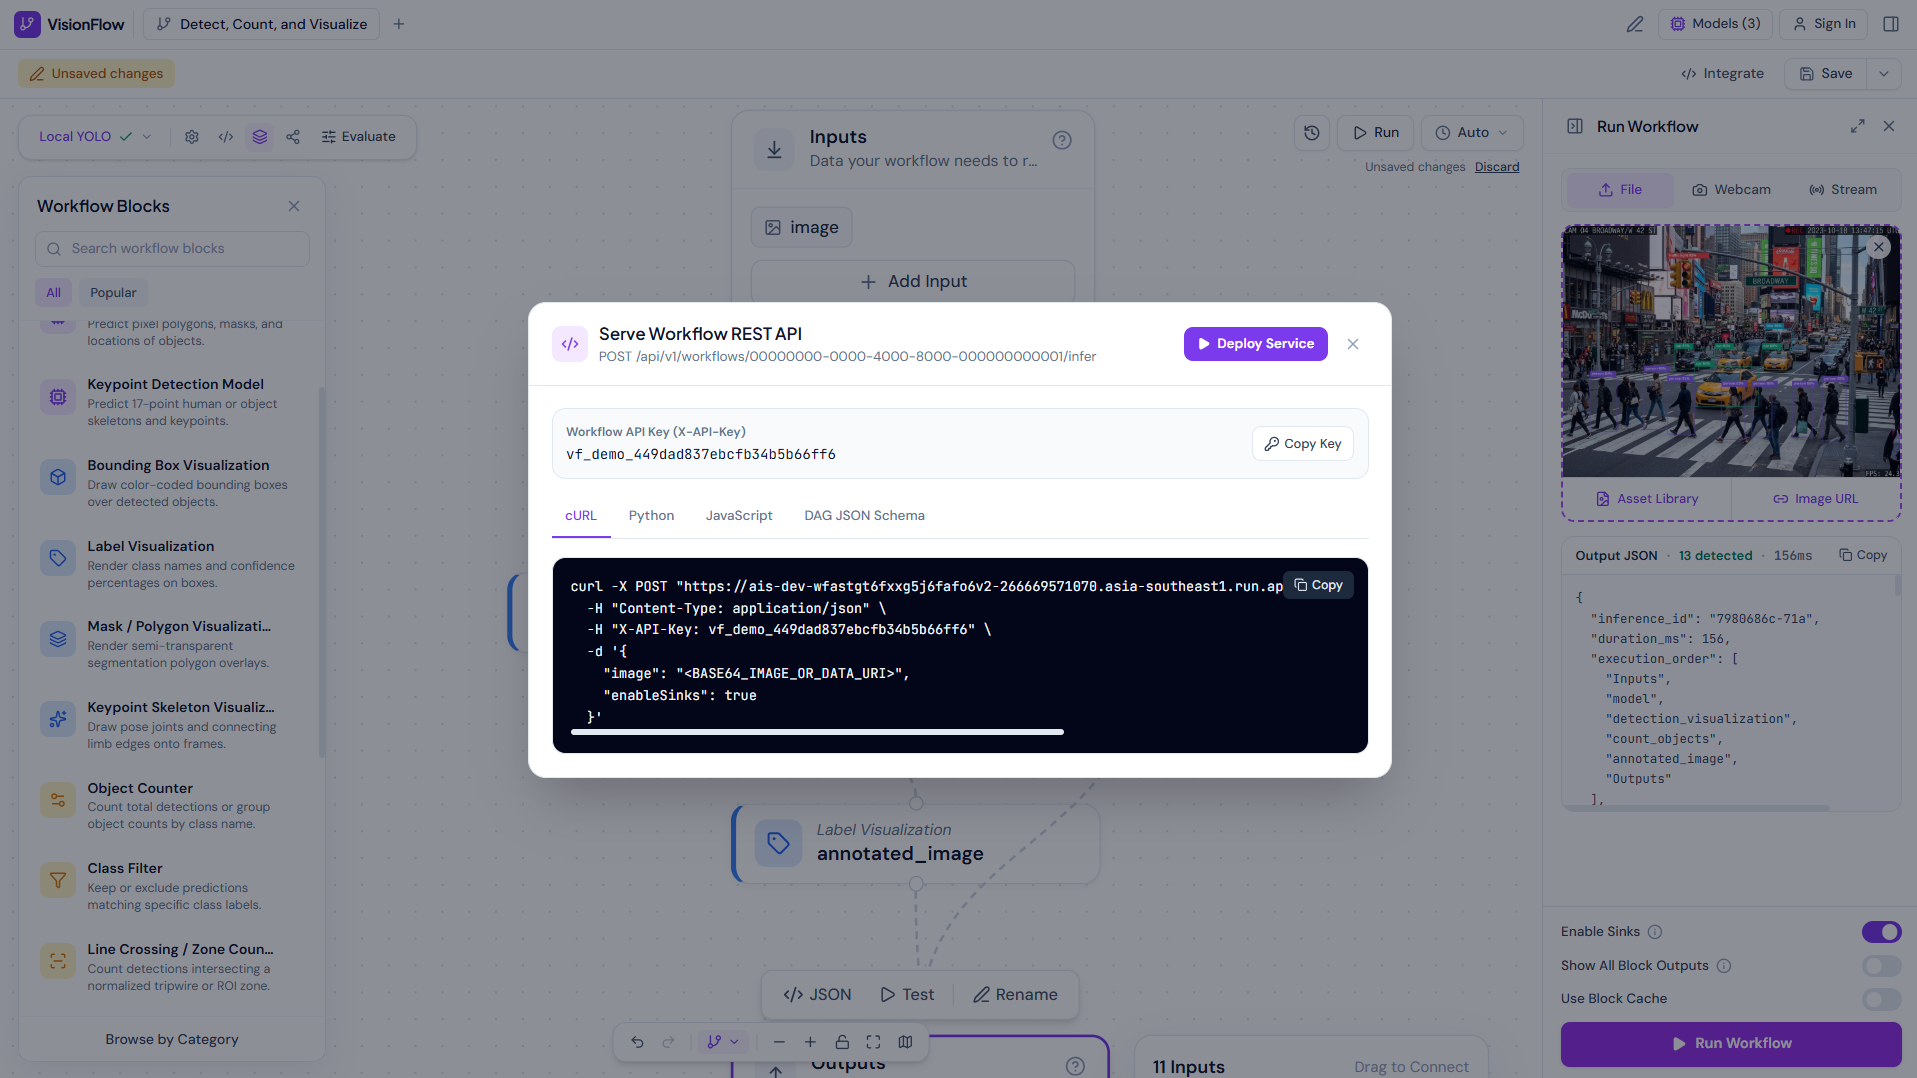
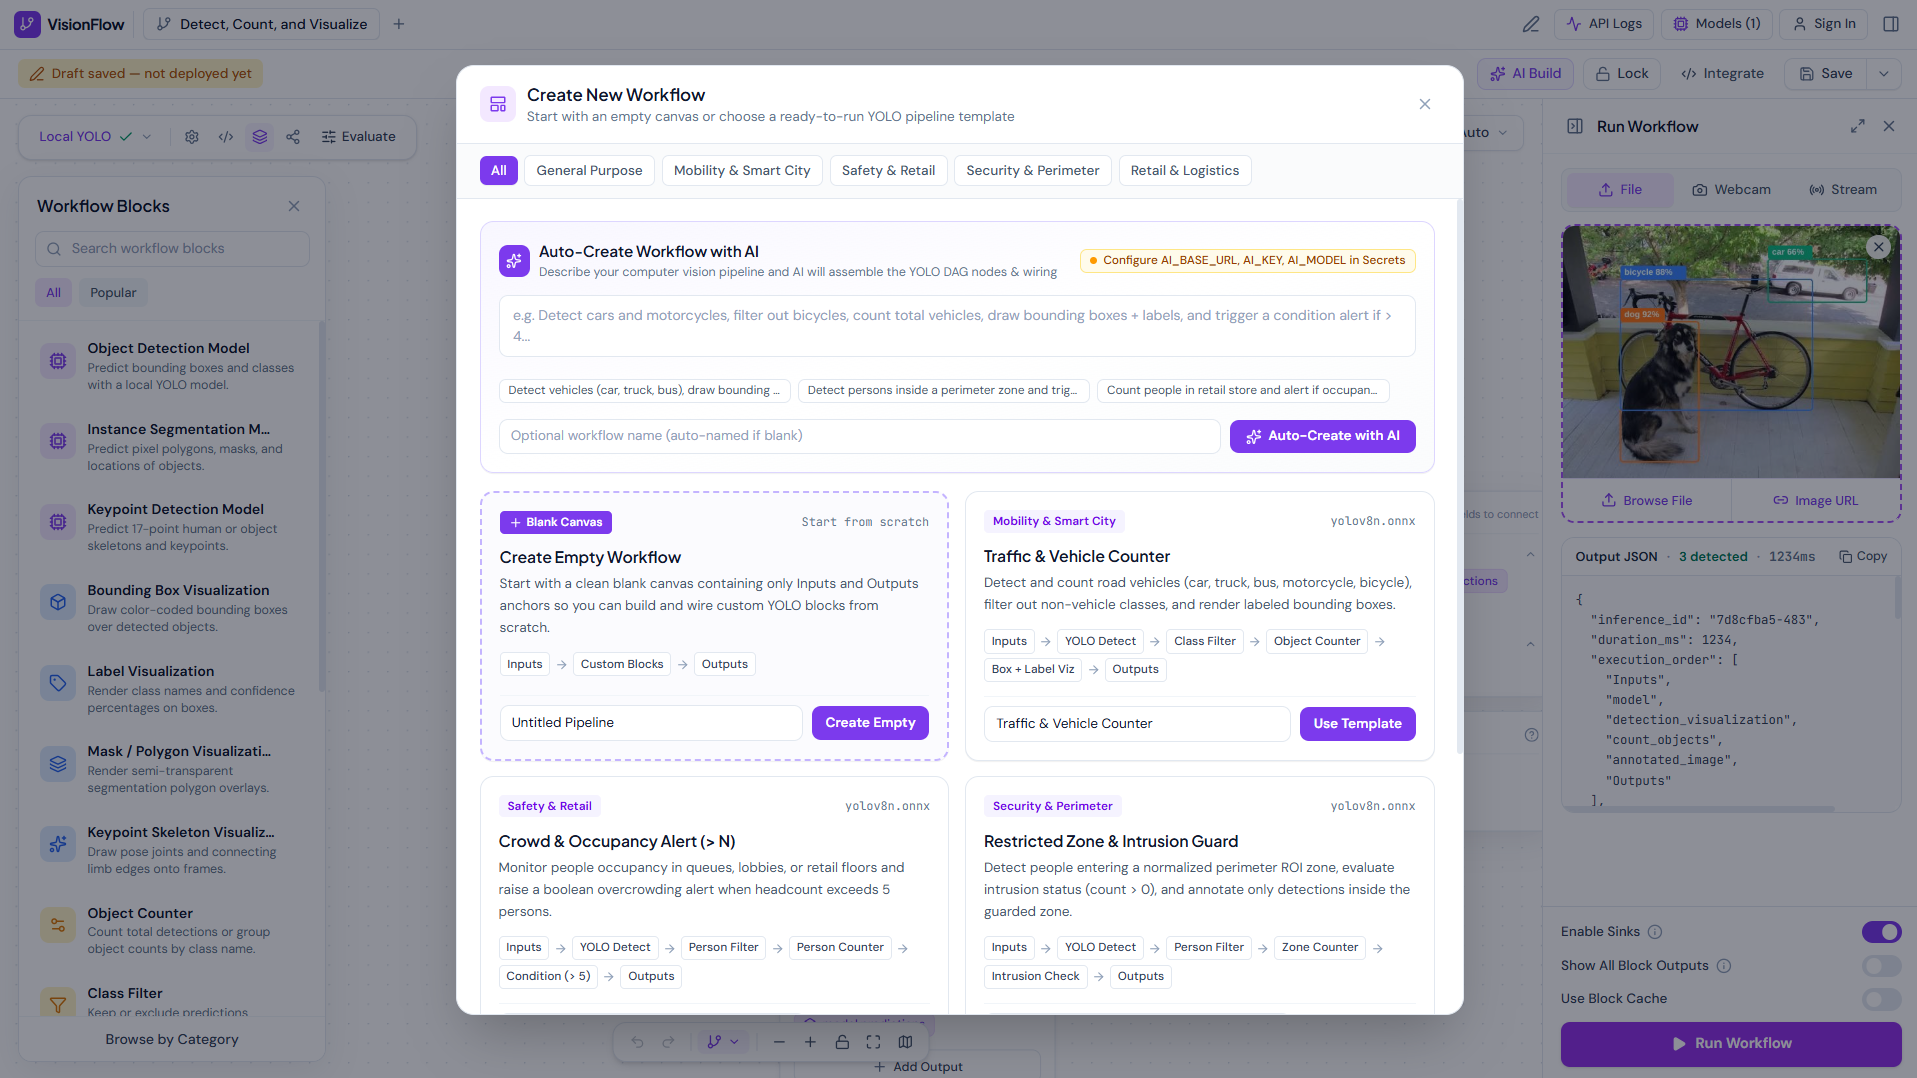
docs: update screenshots and README documentation
Refresh visual assets to reflect the latest UI changes, including the AI workflow builder, and update documentation to cover new REST API serving features.

diff --git a/README.md b/README.md
@@ -23,20 +23,32 @@ Design directed acyclic vision pipelines visually, inspect `.onnx` / `.pt` YOLO 
 ## Visual Overview
 
 <p align="center">
-  <img src="docs/screen_vision_flow_main.png" alt="VisionFlow Main DAG Canvas and Live Inference Runner" width="100%" />
+  <img src="docs/screen_vision_flow_main.png" alt="VisionFlow Main DAG Canvas, Node Inspector, Lock Controls, and Live Inference Runner" width="100%" />
 </p>
 
 <table>
   <tr>
     <td width="50%" align="center">
-      <img src="docs/screen_vision_flow_2.png" alt="Serve Workflow REST API Integration Modal" width="100%" />
+      <img src="docs/screen_vision_flow_2.png" alt="Create New Workflow and AI Auto-Create Modal" width="100%" />
       <br />
-      <sub><strong>Instant REST API Serving</strong> — cURL, Python, JavaScript &amp; DAG JSON export with scoped <code>X-API-Key</code></sub>
+      <sub><strong>AI Workflow Builder &amp; Templates</strong> — OpenAI-compatible <code>AI Build</code> prompt generator, blank canvas, &amp; pre-wired YOLO templates</sub>
     </td>
     <td width="50%" align="center">
       <img src="docs/screen_vision_flow_3.png" alt="Local YOLO Model Registry Modal" width="100%" />
       <br />
       <sub><strong>Local YOLO Model Registry</strong> — Upload <code>.onnx</code> / <code>.pt</code> weights with automatic class &amp; task extraction</sub>
+    </td>
+  </tr>
+  <tr>
+    <td width="50%" align="center">
+      <img src="docs/screen_vision_flow_4.png" alt="Serve Workflow REST API Integration Modal" width="100%" />
+      <br />
+      <sub><strong>Instant REST API Serving</strong> — cURL, Python, JavaScript &amp; DAG JSON export with scoped <code>X-API-Key</code></sub>
+    </td>
+    <td width="50%" align="center">
+      <img src="docs/screen_vision_flow_5.png" alt="API Call Logs Modal" width="100%" />
+      <br />
+      <sub><strong>API Call Logs &amp; Auditing</strong> — PostgreSQL request telemetry with method/status filters, latency stats &amp; payload summaries</sub>
     </td>
   </tr>
 </table>
@@ -46,11 +58,13 @@ Design directed acyclic vision pipelines visually, inspect `.onnx` / `.pt` YOLO 
 ## Key Capabilities
 
 - **Visual Top-to-Bottom DAG Editor:** Drag, connect, rename, duplicate, disable, and inspect nodes with inline floating `Inputs` / `Outputs` field mapping (`inputs.image` → `model.predictions` → `annotated_image.image` → `outputs`).
+- **AI Auto-Create Workflow & Templates:** Click **+** or **AI Build** to start from a blank canvas (`Create Empty Workflow`), pick category-filtered YOLO templates (`Traffic & Vehicle Counter`, `Crowd & Occupancy Alert`, `Restricted Zone & Intrusion Guard`, `Retail Shelf & Inventory Audit`), or describe a pipeline in natural language using any OpenAI API-compatible endpoint (`AI_BASE_URL`, `AI_KEY`, `AI_MODEL`).
+- **Pending Changes Tracking & Workflow Lock:** Unsaved graph or parameter edits highlight **Save Changes** with a live orange indicator and one-click **Discard** rollback; **Lock / Unlock** persists workflow protection in PostgreSQL and enforces `423 Locked` on server mutations.
 - **Local YOLO Model Registry:** Upload `.onnx` and `.pt` models with automated `class_names`, tensor `inputShape`, and task (`detect`, `segment`, `pose`) inspection persisted to PostgreSQL.
 - **Deterministic Topological DAG Engine:** Executes graphs via Kahn's topological sort using `onnxruntime-node` for inference and `sharp` SVG compositing for bounding boxes, labels, segmentation polygons, and pose keypoints.
 - **Logic & Automation Blocks:** Built-in `Object Counter`, `Class Filter`, `Line Crossing / Zone Counter`, `Condition (if count > N)`, and output sinks (`Webhook`, `MQTT`, `Modbus`).
 - **Interactive Run & Test Panel:** Test workflows live against uploaded image files, public HTTPS URLs, browser **Webcam** frames, or background **RTSP/HTTP** video workers via `ffmpeg` with live MJPEG preview.
-- **One-Click API Deployment:** Every saved workflow exposes `POST /api/v1/workflows/:workflowId/infer` secured by per-workflow `X-API-Key` or JWT Bearer auth, logging execution metrics to `inference_runs`.
+- **One-Click API Deployment & Call Logs:** Every saved workflow exposes `POST /api/v1/workflows/:workflowId/infer` secured by per-workflow `X-API-Key` or JWT Bearer auth, recording run metrics in `inference_runs` and full HTTP telemetry in `api_call_logs` (inspectable via the **API Logs** modal).
 
 ---
 
@@ -59,10 +73,13 @@ Design directed acyclic vision pipelines visually, inspect `.onnx` / `.pt` YOLO 
 ```text
 visionflow/
 ├── docs/                              # Repository documentation screenshots
-│   ├── screen_vision_flow_main.png    # Main 3-column DAG builder & live inference view
-│   ├── screen_vision_flow_2.png       # Serve Workflow REST API modal
-│   └── screen_vision_flow_3.png       # Local YOLO Model Registry modal
-├── server/                            # Backend inference, DAG, auth, and worker modules
+│   ├── screen_vision_flow_main.png    # Main 3-column DAG builder, inspector & live inference view
+│   ├── screen_vision_flow_2.png       # Create New Workflow modal (AI Build, Empty Canvas & Templates)
+│   ├── screen_vision_flow_3.png       # Local YOLO Model Registry modal
+│   ├── screen_vision_flow_4.png       # Serve Workflow REST API modal
+│   └── screen_vision_flow_5.png       # API Call Logs & telemetry modal
+├── server/                            # Backend inference, AI, DAG, auth, and worker modules
+│   ├── aiWorkflowGenerator.ts         # OpenAI-compatible LLM workflow planner & Zod/DAG sanitizer
 │   ├── auth.ts                        # bcryptjs password hashing, JWT auth, SSRF URL validator
 │   ├── dagEngine.ts                   # Kahn topological sort & node-by-node DAG runner
 │   ├── modelInspector.ts              # .onnx (onnxruntime-node/protobuf) & .pt (pickletools) metadata extractor
@@ -71,17 +88,18 @@ visionflow/
 │   └── yoloEngine.ts                  # Real ONNX YOLO pre/post-processing, NMS & sharp SVG overlays
 ├── src/
 │   ├── components/
-│   │   ├── Modals.tsx                 # Model Registry, API Integration, Auth, Node JSON & Run History modals
+│   │   ├── Modals.tsx                 # Model Registry, Templates/AI Builder, API Integration, API Logs, Auth & Node JSON modals
 │   │   ├── RunWorkflowPanel.tsx       # Right panel: File, Webcam, and RTSP Stream test & output JSON viewer
-│   │   ├── WorkflowBlocksSidebar.tsx  # Left floating block palette with category drill-down & search
+│   │   ├── WorkflowBlocksSidebar.tsx  # Left floating block palette with lock guard, category drill-down & search
 │   │   └── WorkflowNodes.tsx          # Custom React Flow Inputs, Step, Outputs nodes & dashed Bezier edges
 │   ├── db/
 │   │   ├── index.ts                   # Split DB_* PostgreSQL pool & idempotent DDL table bootstrap
-│   │   └── schema.ts                  # Drizzle schema (users, models, workflows, streams, inference_runs)
+│   │   └── schema.ts                  # Drizzle schema (users, models, workflows, streams, inference_runs, api_call_logs)
 │   ├── lib/
 │   │   └── api.ts                     # Typed frontend HTTP client with in-memory JWT Bearer session
 │   ├── shared/
-│   │   └── workflowSchema.ts          # Standard DAG JSON schema, block specs & default workflow factory
+│   │   ├── workflowSchema.ts          # Standard DAG JSON schema, block specs & empty/default workflow factories
+│   │   └── workflowTemplates.ts       # Built-in empty canvas & pre-wired YOLO workflow templates
 │   ├── types/
 │   │   └── visionflow.ts              # Shared UI TypeScript interfaces
 │   ├── App.tsx                        # Main workspace orchestrator, undo/redo, auto-layout & React Flow state
@@ -116,8 +134,9 @@ visionflow/
 │                      Express API & Serving Gateway (server.ts)                │
 │                                                                               │
 │  • Auth Middleware (JWT + bcryptjs)       • /api/models/upload (Multer)       │
-│  • /api/workflows & /deploy               • /api/v1/workflows/:id/infer       │
-│  • /api/workflows/run                     • /api/streams/:id/{start,stop,mjpeg}│
+│  • /api/workflows, /deploy & Lock Guard   • /api/workflows/ai-generate (LLM)    │
+│  • /api/workflows/run & /api/api-logs     • /api/v1/workflows/:id/infer       │
+│  • /api/streams/:id/{start,stop,mjpeg}                                        │
 └───────────────┬─────────────────────────────────────────┬─────────────────────┘
                 │                                         │
                 ▼                                         ▼
@@ -128,7 +147,8 @@ visionflow/
 │   ├─▶ yoloEngine.ts               │     │   ├─▶ ffmpeg RTSP/HTTP capture      │
 │   │    ├─▶ onnxruntime-node       │     │   ├─▶ executeWorkflowDag()          │
 │   │    └─▶ sharp SVG compositor   │     │   └─▶ MJPEG / Webhook / MQTT / Modbus│
-│   └─▶ Logic, Zone & Sink Nodes    │     │                                     │
+│   ├─▶ Logic, Zone & Sink Nodes    │     │                                     │
+│   └─▶ aiWorkflowGenerator.ts      │     │                                     │
 └───────────────┬───────────────────┘     └──────────────────┬──────────────────┘
                 │                                            │
                 └─────────────────────┬──────────────────────┘
@@ -139,15 +159,16 @@ visionflow/
                      │  • users         • workflows    │
                      │  • models        • streams      │
                      │  • inference_runs               │
+                     │  • api_call_logs                │
                      └─────────────────────────────────┘
 ```
 
 ### Execution Flow
 
-1. **Schema & Authoring:** Every workflow graph conforms to `WorkflowDefinition` (`inputs`, `nodes`, `edges`, `outputs`) and is persisted as JSONB in PostgreSQL (`workflows`).
+1. **Schema, Templates & AI Authoring:** Every workflow graph conforms to `WorkflowDefinition` (`inputs`, `nodes`, `edges`, `outputs`) and is persisted as JSONB in PostgreSQL (`workflows`) with `isLocked` mutation protection. Users can start from a blank canvas, instantiate pre-wired templates, or generate a validated DAG via `aiWorkflowGenerator.ts`.
 2. **Model Inspection:** When uploading `.onnx` or `.pt` weights, `modelInspector.ts` extracts `class_names`, tensor `inputShape`, and task type (`detect` / `segment` / `pose`) before writing to the `models` table.
 3. **Topological Execution:** `dagEngine.ts` builds an adjacency graph, rejects cycles via Kahn's algorithm, resolves `$inputs` / upstream node output references (`model.predictions`, `detection_visualization.image`), runs real ONNX tensor inference in `yoloEngine.ts`, composites annotated JPEG frames with `sharp`, and logs latency/counts to `inference_runs`.
-4. **Live Serving:** Deployed workflows expose `POST /api/v1/workflows/:workflowId/infer` accepting `multipart/form-data`, base64 payloads, or validated public HTTPS `image_url`, returning structured JSON + base64 annotated output.
+4. **Live Serving & API Auditing:** Deployed workflows expose `POST /api/v1/workflows/:workflowId/infer` accepting `multipart/form-data`, base64 payloads, or validated public HTTPS `image_url`, returning structured JSON + base64 annotated output while recording request metadata and response summaries to `api_call_logs`.
 
 ---
 
@@ -161,7 +182,8 @@ visionflow/
 | **Model Parsing** | `adm-zip`, Python stdlib `pickletools` | `.onnx` metadata/protobuf scan and `.pt` PyTorch zip header inspection |
 | **Backend API** | Express 4, Multer, Zod | REST endpoints, file uploads, request validation, SSRF-safe URL fetching |
 | **Authentication** | `jsonwebtoken`, `bcryptjs` | Password hashing, JWT Bearer sessions, per-workflow `X-API-Key` |
-| **Database & ORM** | PostgreSQL, Drizzle ORM, `postgres` | Persistent storage for users, models, workflows, streams, and run history |
+| **Database & ORM** | PostgreSQL, Drizzle ORM, `postgres` | Persistent storage for users, models, workflows, streams, run history, and API call logs |
+| **AI Workflow Planner** | OpenAI-Compatible `/chat/completions`, `zod` | Optional natural-language DAG generation bound to registered YOLO models |
 | **Stream Processing** | `ffmpeg` (child process) | RTSP / HTTP live frame extraction & real-time MJPEG multipart streaming |
 
 ---
@@ -195,9 +217,14 @@ DB_PORT=5432
 DB_NAME=postgres
 DB_USER=postgres
 DB_PASSWORD=your-postgres-password
+
+# Optional: OpenAI API-compatible endpoint for AI Auto-Create Workflow
+AI_BASE_URL=https://api.openai.com/v1
+AI_KEY=your-openai-compatible-api-key
+AI_MODEL=gpt-4o-mini
 ```
 
-> On startup, `src/db/index.ts` automatically bootstraps the required tables (`users`, `models`, `workflows`, `streams`, `inference_runs`) and `seedDatabaseDefaults()` registers `uploads/models/yolov8n.onnx` plus the default **Detect, Count, and Visualize** workflow if the database is empty.
+> On startup, `src/db/index.ts` automatically bootstraps the required tables (`users`, `models`, `workflows`, `streams`, `inference_runs`, `api_call_logs`) and `seedDatabaseDefaults()` registers `uploads/models/yolov8n.onnx` plus the default **Detect, Count, and Visualize** workflow if the database is empty.
 
 ### 4. Development, Typecheck & Production Build
 
